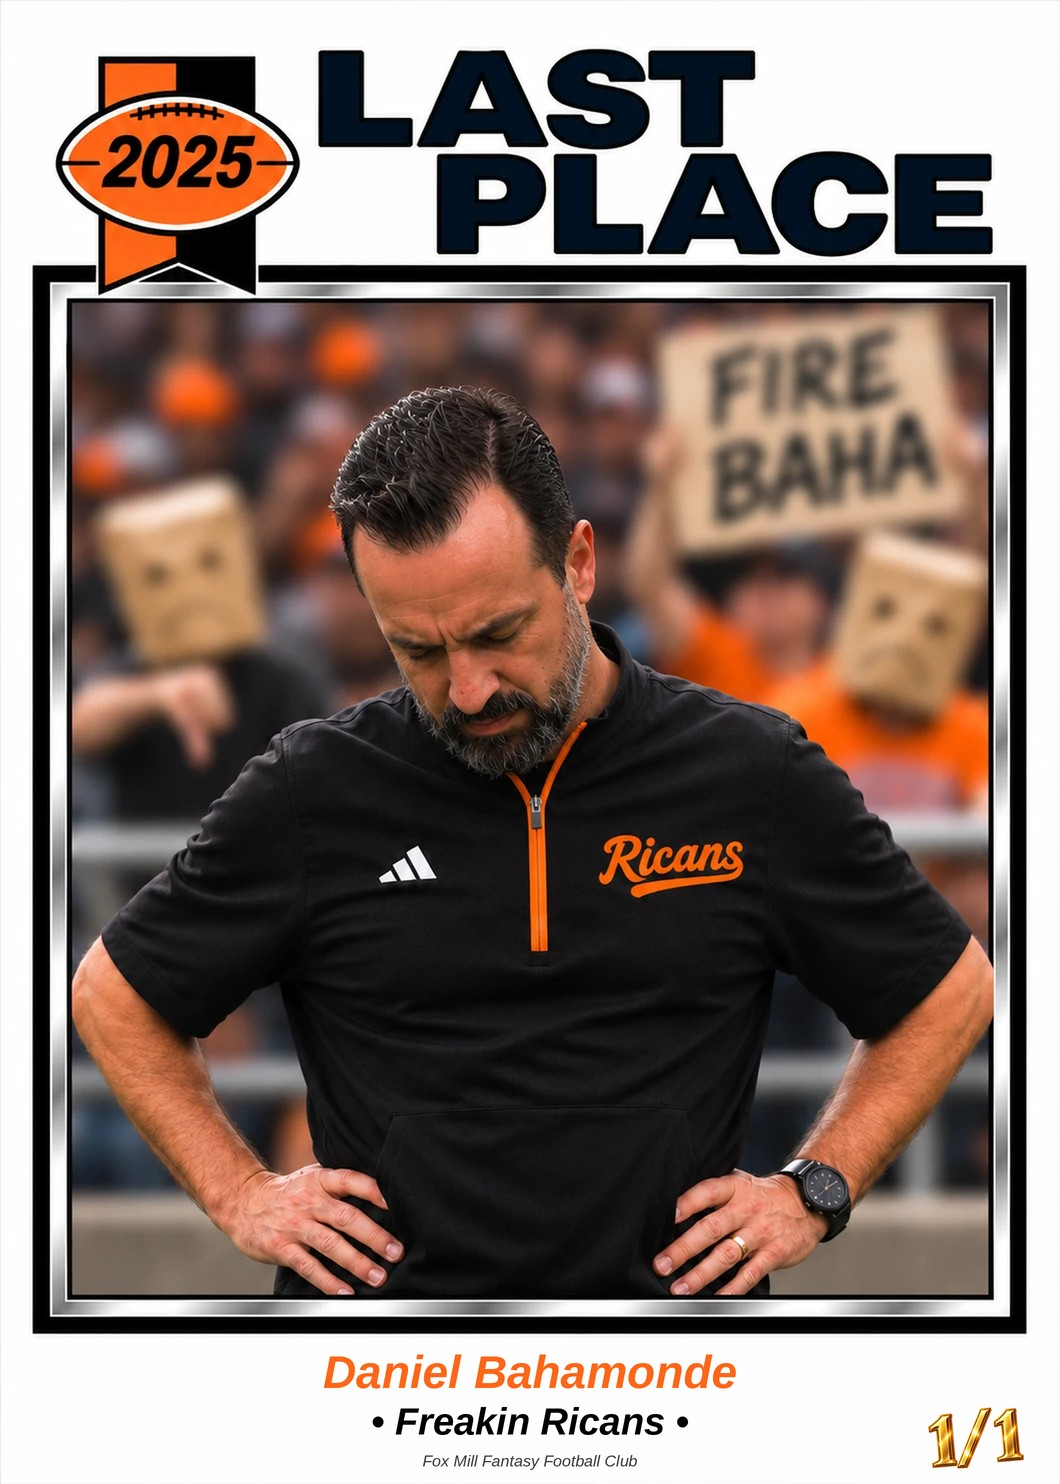
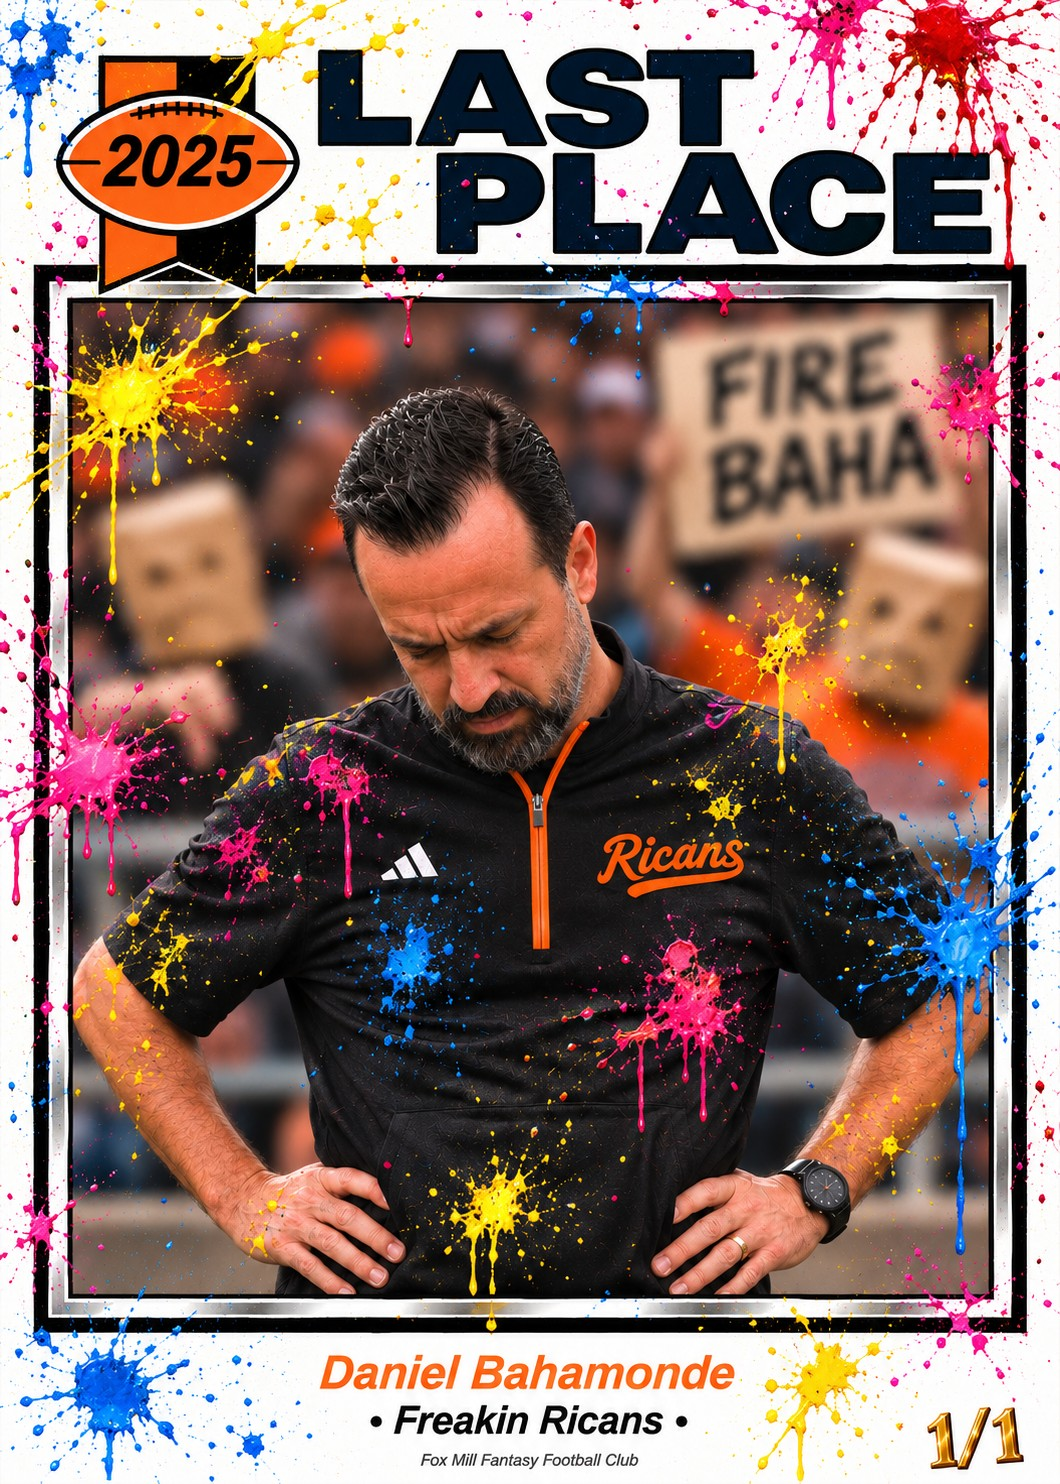
Trading cards: Paintball parallel front for the 2026 Last Place parallel (TestSite)
Replaces the placeholder front with the paintball-splatter version and
names the card 'Paintball Parallel'.

Claude-Session: https://claude.ai/code/session_01UpP7v7hx5qAPJn57enR7pR

diff --git a/TestSite/card-collection.js b/TestSite/card-collection.js
@@ -28,7 +28,7 @@ const SPECIAL_CARDS = [
     file: "points-champion-2025-greg-wigton" },
   { year: 2025, section: "recognition", award: "Last Place", manager: "Daniel Bahamonde",
     file: "last-place-2025-daniel-bahamonde" },
-  // Parallel of the 2025 Last Place card, issued in the 2026 set.
-  { year: 2026, section: "recognition", award: "Punishment Insert", manager: "Daniel Bahamonde",
+  // Paintball parallel of the 2025 Last Place card, issued in the 2026 set.
+  { year: 2026, section: "recognition", award: "Paintball Parallel", manager: "Daniel Bahamonde",
     file: "punishment-2026-daniel-bahamonde" },
 ];
